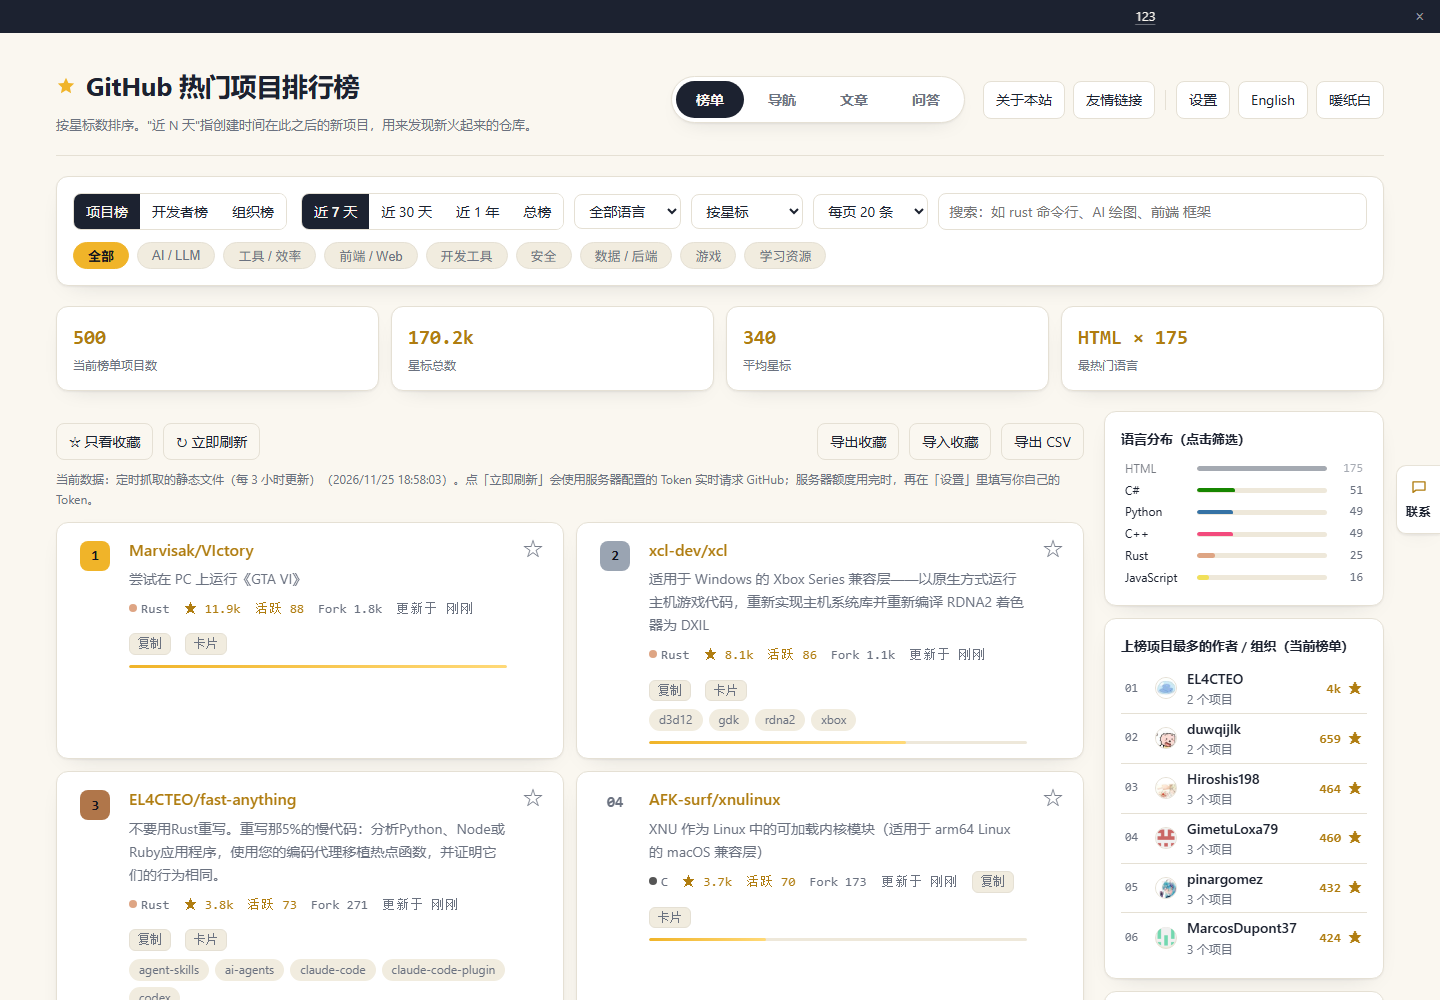
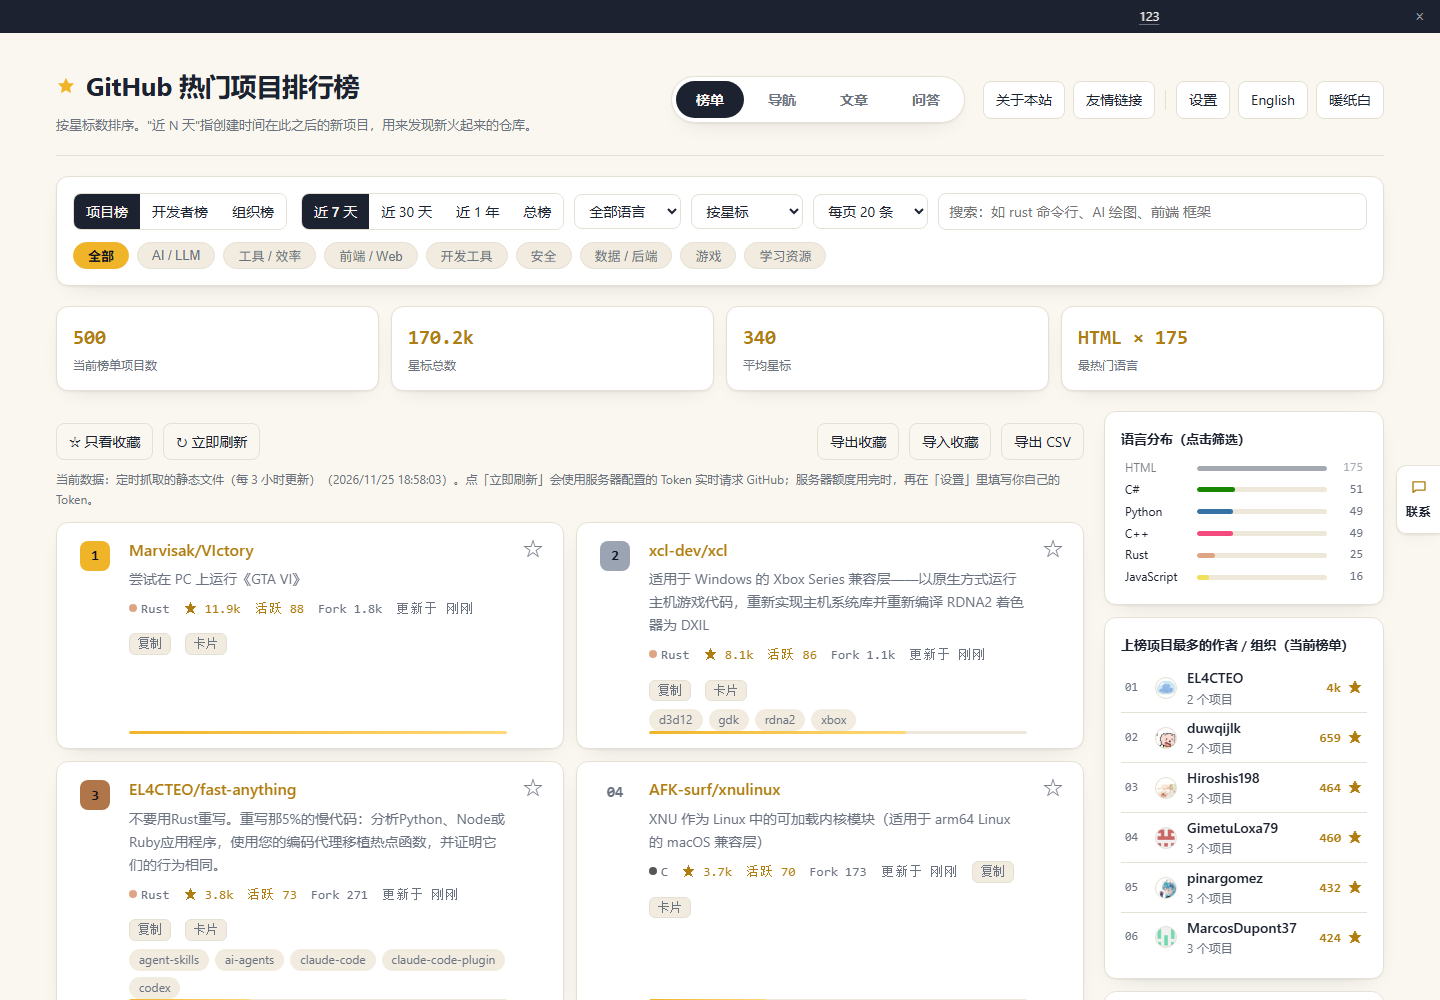
style: 等高卡片把星标条压到底部（消除中间空白）+ 全站 :focus-visible 焦点环；ASSET_V/CACHE v58

diff --git a/index.html b/index.html
@@ -223,10 +223,14 @@ body[data-page="nav"] #insights{display:none!important}
 #top{position:fixed;right:18px;bottom:18px;width:42px;height:42px;border-radius:50%;border:1px solid var(--border);background:var(--card);color:var(--accent);font-size:18px;cursor:pointer;box-shadow:var(--shadow);opacity:0;pointer-events:none;transition:opacity .2s}
 #top.show{opacity:1;pointer-events:auto}
 [id]{scroll-margin-top:16px}
+:focus-visible{outline:2px solid var(--accent);outline-offset:2px;border-radius:6px}
 @media (min-width:1440px){
   .wrap{max-width:1360px}
   #list{display:grid;grid-template-columns:repeat(2,minmax(0,1fr));gap:var(--gap);align-items:stretch}
   .item{height:100%}
+  /* 卡片等高时，内容少的卡片把星标条压到底部，避免中间出现一段空白 */
+  #list .item>div:nth-child(2){display:flex;flex-direction:column;min-width:0}
+  #list .item .starbar{margin-top:auto}
   }
   /* 榜单布局模式（site.json 的 layout.mode，写在 body[data-layout] 上）：auto 沿用上面的规则 */
   body[data-layout="single"] #list{display:flex;flex-direction:column;gap:var(--gap)}

diff --git a/articles.html b/articles.html
@@ -90,6 +90,7 @@ header{display:grid;grid-template-columns:minmax(0,1fr) auto auto;align-items:ce
 .reader h1{font-size:27px;line-height:1.35;margin:0 0 10px;letter-spacing:-.5px}
 .rmeta{display:flex;gap:10px;flex-wrap:wrap;align-items:center;font-size:12.5px;color:var(--muted);padding-bottom:14px;border-bottom:1px solid var(--border);margin-bottom:20px}
 .abody{font-size:15px;line-height:1.85;color:var(--text);overflow-wrap:anywhere}
+:focus-visible{outline:2px solid var(--accent);outline-offset:2px;border-radius:6px}
 .abody h1,.abody h2,.abody h3,.abody h4,.abody h5,.abody h6{line-height:1.4;margin:1.6em 0 .6em;letter-spacing:-.2px}
 .abody h1{font-size:23px}.abody h2{font-size:21px}.abody h3{font-size:18px}.abody h4{font-size:16px}.abody h5,.abody h6{font-size:15px}
 .abody p{margin:.9em 0}

diff --git a/sw.js b/sw.js
@@ -1,5 +1,5 @@
 /* Service Worker：缓存页面外壳（HTML/JS/图标），让离线也能打开；GitHub API 不缓存，由页面自己的 localStorage 管理 */
-const CACHE = 'ghrank-shell-v57';
+const CACHE = 'ghrank-shell-v58';
 const SHELL = ['./', 'index.html', 'js/bundle.js', 'js/md.js', 'manifest.json', 'icon.svg'];
 // 只预缓存 meta（约 2KB）。榜单数据按 range 分文件、由页面按需加载，不再在安装时白下几�?KB
 const DATA = 'data/repos-meta.js';

diff --git a/faq.html b/faq.html
@@ -59,6 +59,7 @@ footer{margin-top:34px;padding-top:16px;border-top:1px solid var(--line);color:v
 .empty{color:var(--muted);padding:22px 0}
 
 /* ---- 多主题 ---- */
+:focus-visible{outline:2px solid var(--accent);outline-offset:2px;border-radius:6px}
 html[data-theme="ink"]{
   --bg:#08090b;--card:#101216;--fg:#e8ecf4;--muted:#8b93a7;
   --line:#1e222b;--accent:#6e79d6;--accent-soft:#171a22;--chip:#171a22;

diff --git a/worker.js b/worker.js
@@ -1410,7 +1410,7 @@ async function injectFaqLd(env, html) {
 
 // 静态资源版本：HTML 里的 /js/*.js 都会被加上 ?v=<这里>，于是能给浏览器一年 immutable；
 // 改了前端就把它 +1（不然用户浏览器会抱着一周的旧 bundle，界面上去点了没反应）
-const ASSET_V = 'v57';
+const ASSET_V = 'v58';
 
 function emptyNav() {
   return { updatedAt: '', groups: [] };
